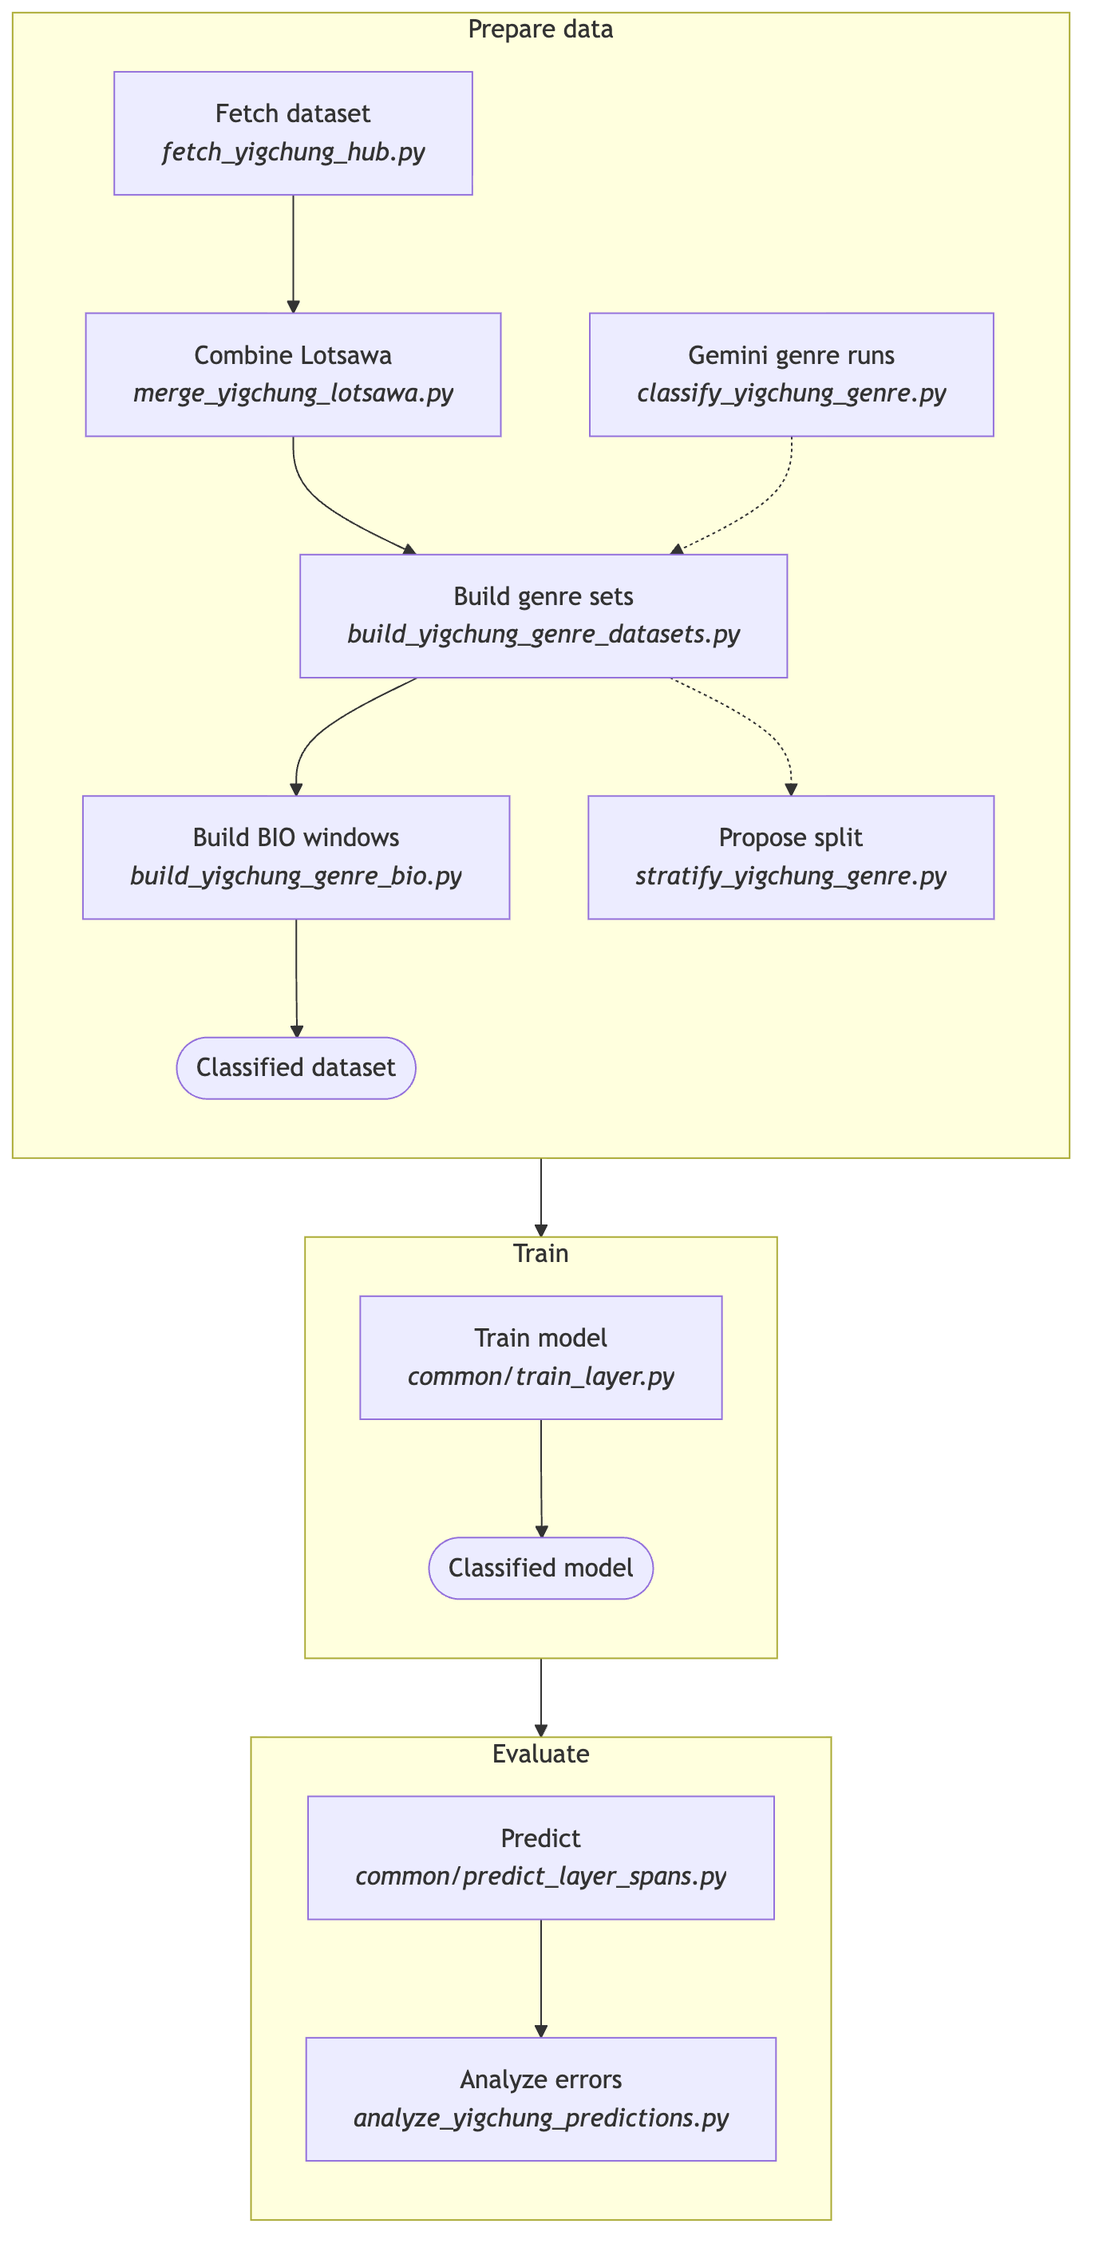
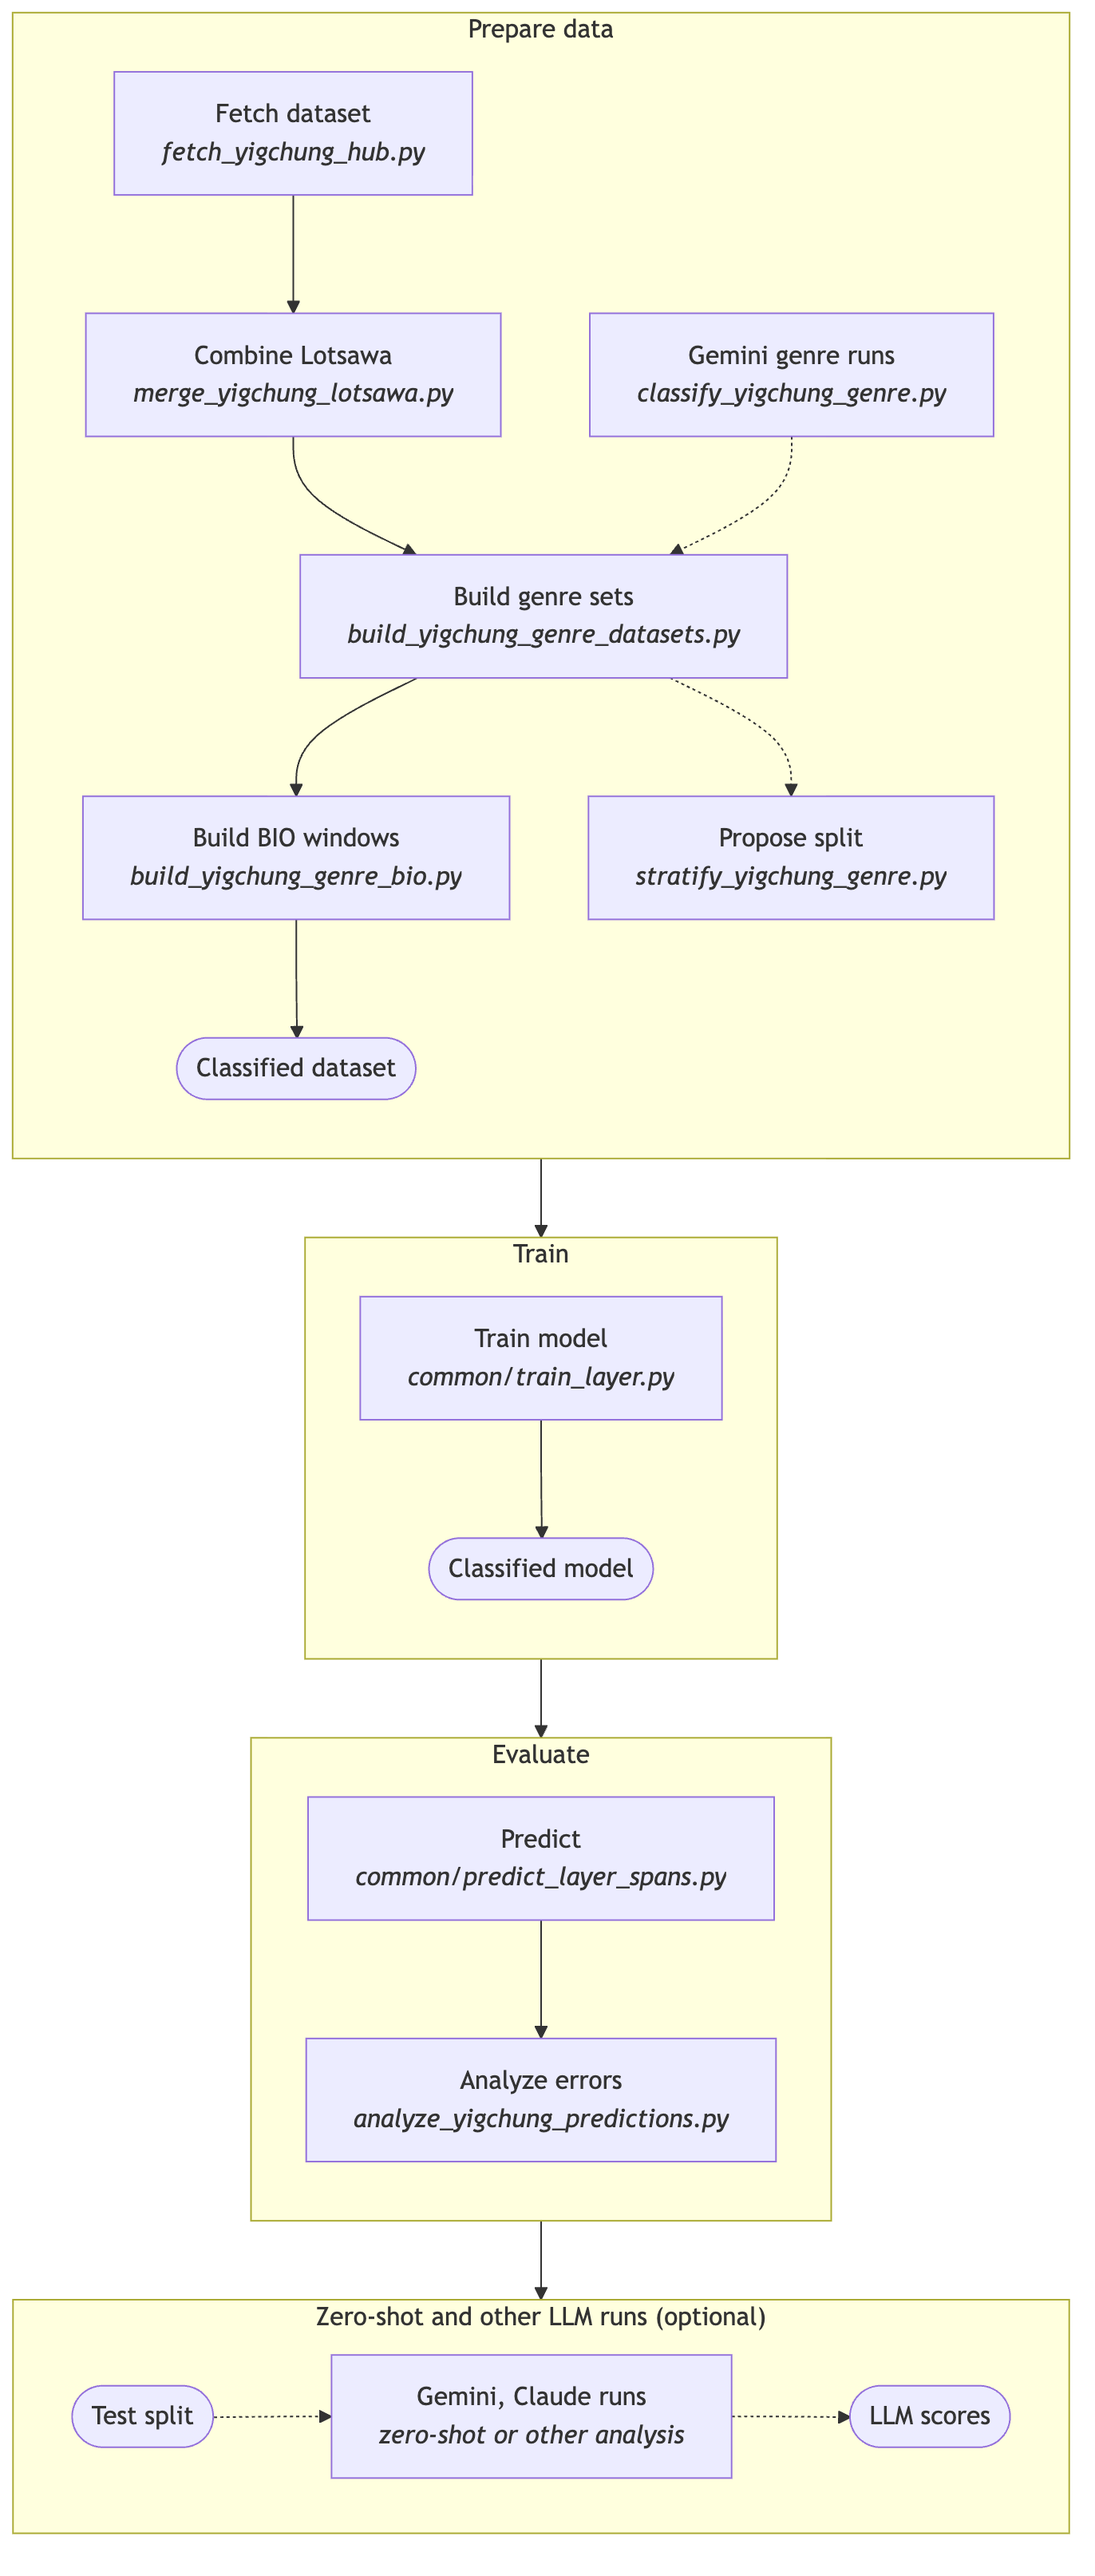
Yigchung charts: optional box for zero-shot and other Gemini/LLM analysis

diff --git a/yigchung/README.md b/yigchung/README.md
@@ -47,7 +47,7 @@ Classified (genre) system:
 
 <sub>Chart source: [pipeline_2.mmd](docs/pipeline_2.mmd)</sub>
 
-Squares are steps with the script that runs them; rounded boxes are files; dashed arrows are optional steps. The **benchmark** is the corrected 77-book test set, scored once. The Gemini runs shown in the second chart label each book's genre (several prompt versions); no Gemini span-detection results are saved in this repo. Uploading the dataset and the model is done with the Hugging Face CLI (no script here).
+Squares are steps with the script that runs them; rounded boxes are files; dashed arrows are optional steps. The **benchmark** is the corrected 77-book test set, scored once. The Gemini runs shown in the second chart label each book's genre (several prompt versions); the optional LLM box stands for zero-shot or other Gemini and Claude analysis; no such results are saved in this repo. Uploading the dataset and the model is done with the Hugging Face CLI (no script here).
 
 ## Main pipeline
 
